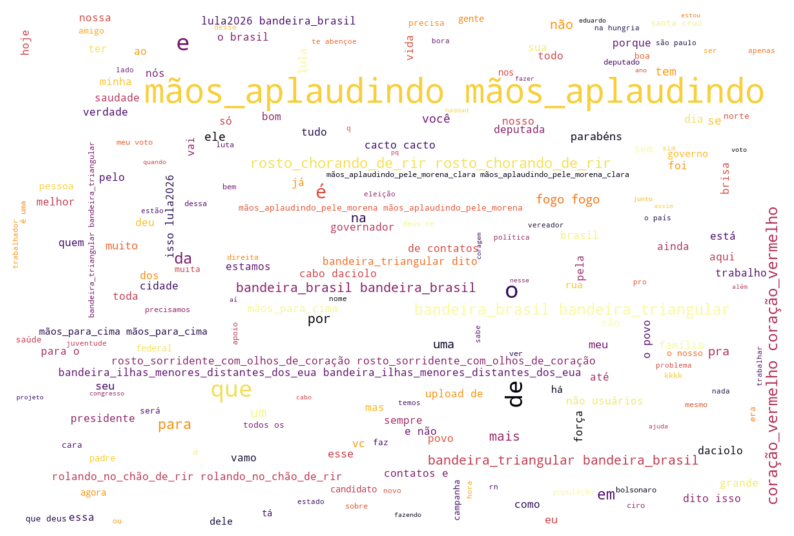
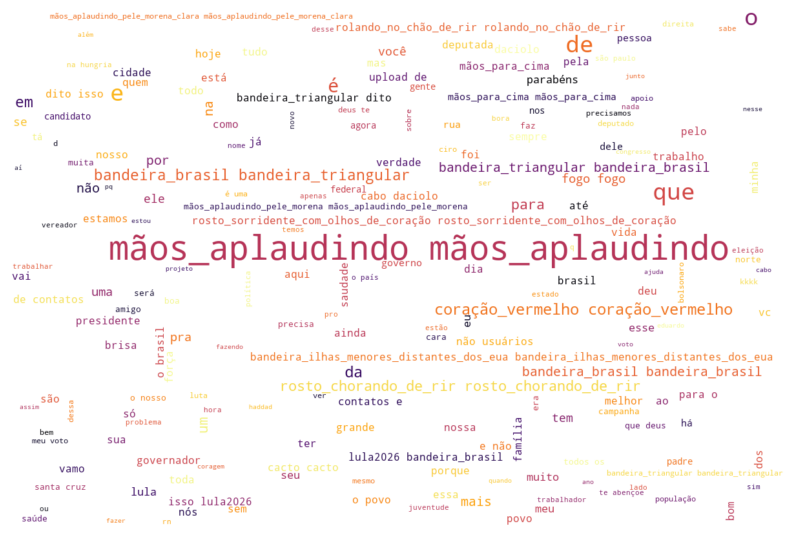
ok

diff --git a/index.html b/index.html
@@ -25,21 +25,21 @@
     <link rel="preconnect" href="https://d3js.org">
     <link rel="preconnect" href="https://cdn.jsdelivr.net">
 
-    <title>SENTINELA | Diamond Edition v20.2.1</title>
-    <link rel="icon" type="image/png" href="/assets/sentinela_small.png">
+    <title>SENTINELA | Diamond Edition v20.5.0</title>
+    <link rel="icon" type="image/png" href="./assets/sentinela_small.png">
     
     <!-- Critical Scripts -->
     <script src="https://cdn.tailwindcss.com" defer></script>
     <link href="https://fonts.googleapis.com/css2?family=Inter:wght@400;500;600;700;800&family=JetBrains+Mono:wght@400;500&display=swap" rel="stylesheet">
     <script src="https://unpkg.com/lucide@latest" defer></script>
-    <link rel="stylesheet" href="/src/styles/main.css?v=20.2.1">
+    <link rel="stylesheet" href="./src/styles/main.css?v=20.5.0">
     <script src="https://cdn.jsdelivr.net/npm/@supabase/supabase-js@2" defer></script>
 </head>
 <body class="custom-scrollbar">
     <!-- SIDEBAR ESQUERDA (Navegação) -->
     <aside class="sidebar-left">
         <div class="brand-block">
-            <div class="brand-mark"><img src="/assets/sentinela_small.webp" alt="Logo" fetchpriority="high"></div>
+            <div class="brand-mark"><img src="./assets/sentinela_small.webp" alt="Logo" fetchpriority="high"></div>
             <h1>Sentinela</h1>
         </div>
 
@@ -133,8 +133,7 @@
     <!-- Scripts de Terceiros e Core -->
     <script src="https://unpkg.com/lucide@latest" defer></script>
     <script src="https://cdn.jsdelivr.net/npm/@supabase/supabase-js@2" defer></script>
-    <script type="module" src="/src/core/app.js?v=20.2.1"></script>
-    <script type="module" src="/src/core/payments.js?v=20.2.1"></script>
+    <script type="module" src="./src/core/app.js?v=20.5.0"></script>
+    <script type="module" src="./src/core/payments.js?v=20.5.0"></script>
 </body>
-</html>dy>
 </html>

diff --git a/processing/report_generator.py b/processing/report_generator.py
@@ -14,6 +14,8 @@ class ReportGenerator(FPDF):
             if os.path.exists('C:\\Windows\\Fonts\\arial.ttf'):
                 self.add_font('ArialCustom', '', 'C:\\Windows\\Fonts\\arial.ttf')
                 self.add_font('ArialCustom', 'B', 'C:\\Windows\\Fonts\\arialbd.ttf')
+                if os.path.exists('C:\\Windows\\Fonts\\ariali.ttf'):
+                    self.add_font('ArialCustom', 'I', 'C:\\Windows\\Fonts\\ariali.ttf')
                 self.font_family_main = 'ArialCustom'
         except Exception as e:
             print(f"⚠️ Aviso ao carregar fontes: {e}")
@@ -105,7 +107,10 @@ class ReportGenerator(FPDF):
         # Placeholder para assinatura
         self.ln(20)
         self.line(10, self.get_y(), 80, self.get_y())
-        self.set_font(self.font_family_main, 'I', 7)
+        try:
+            self.set_font(self.font_family_main, 'I', 7)
+        except:
+            self.set_font(self.font_family_main, '', 7)
         self.cell(0, 5, 'Validado por Sentinela AI - Núcleo de Processamento de Dados')
 
     def generate_pdf(self, df_final, output_path):